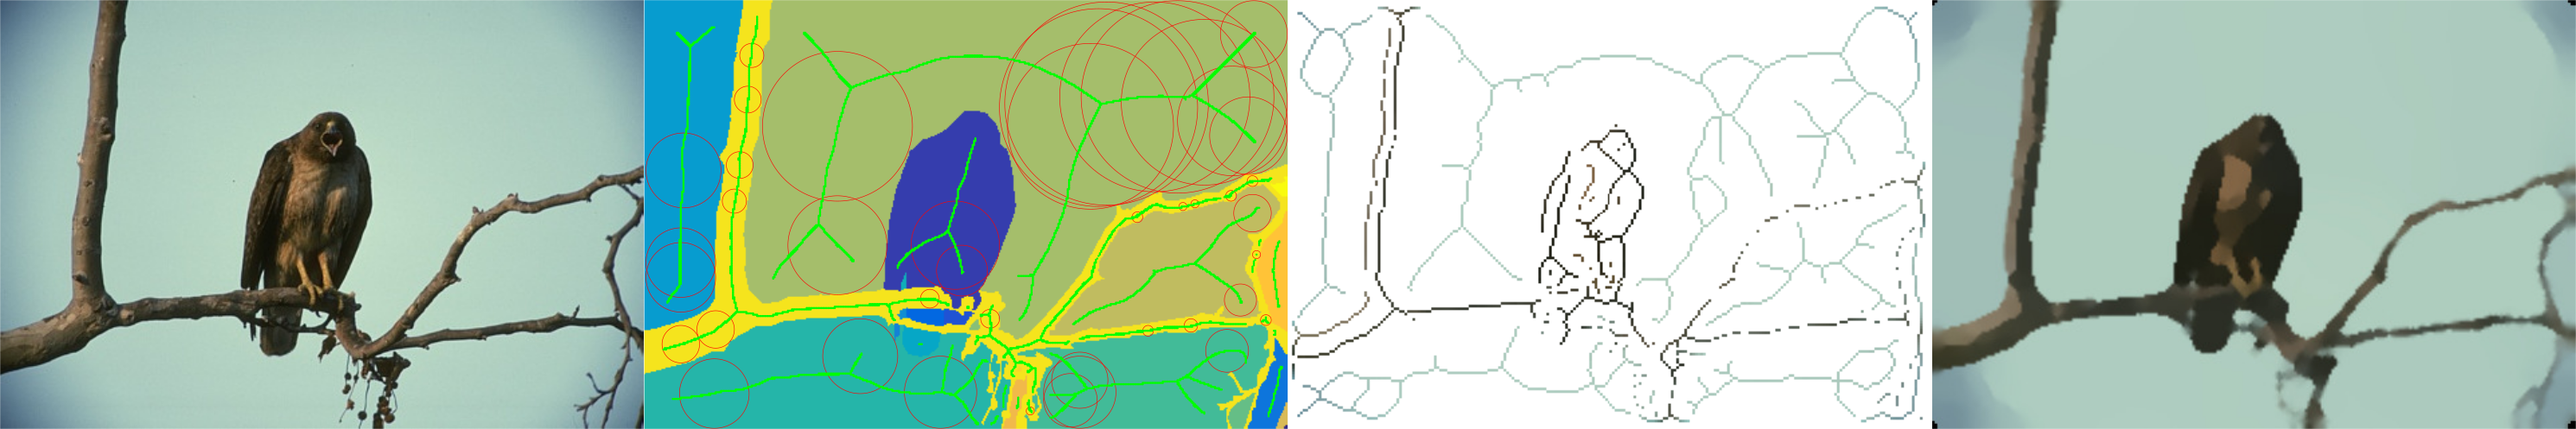
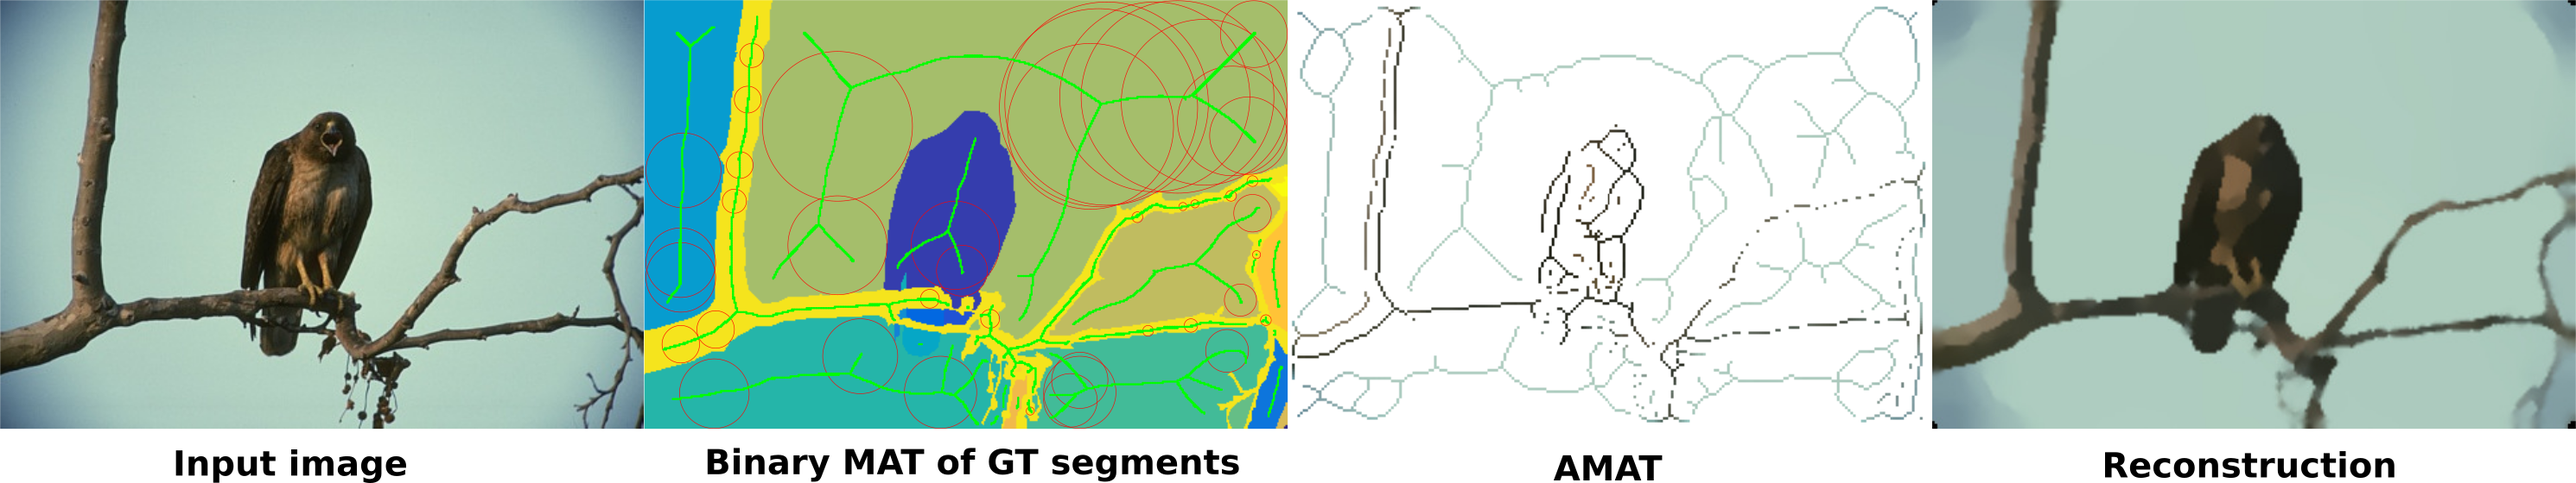
added caption to teaser figure

diff --git a/README.md b/README.md
@@ -1,8 +1,12 @@
 # amat
 
 
-[AMAT: Medial Axis Transform for Natural Images](https://arxiv.org/abs/1703.08628)
-[Stavros Tsogkas](http://tsogkas.github.io/), [Sven Dickinson](http://www.cs.toronto.edu/~sven/), arXiv, 2017.
+<img src="teaser-horizontal.png" width="900px"/>
+
+[AMAT: Medial Axis Transform for Natural Images](https://arxiv.org/abs/1703.08628)  
+[Stavros Tsogkas](http://tsogkas.github.io/), [Sven Dickinson](http://www.cs.toronto.edu/~sven/)  
+In arXiv, 2017.
+
 
 ## License
 
